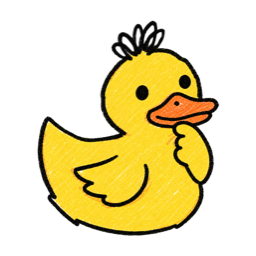
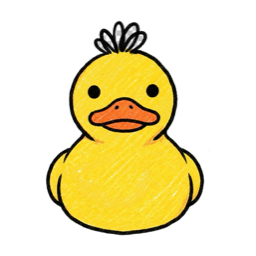
Add dedicated awaiting-input art, numbered options, and clean input-line after reply

Changed region(s): [[0.125, 0.0625, 0.875, 0.9375]]

diff --git a/tools/generate_dock_icons.swift b/tools/generate_dock_icons.swift
@@ -1,10 +1,12 @@
-// Builds the live per-state Dock tile PNGs from real-alpha source art
-// (dockling.png / thinking_dockling.png — no chroma-keying needed, unlike the
-// old crayon-JPEG pipeline these replace). Normalizes each source onto the
-// same canvas size with the same fit-to-bbox scaling, so swapping states
-// doesn't visually jump per DOCKLING_SPEC.md's Dock-tile art requirements.
+// Builds the live per-state Dock tile PNGs from the duck source art.
+// Most sources are already real-alpha PNGs (dockling.png, thinking_dockling.png,
+// eureka_dockling.png). front_dockling.jpg is a JPEG with a checkerboard
+// pattern baked into its pixels instead of real transparency, so it goes
+// through keyCheckerboard() first. Every source then gets cropped to its
+// content bounding box and normalized onto the same canvas size, so swapping
+// states doesn't visually jump per DOCKLING_SPEC.md's Dock-tile art requirements.
 //
-// Usage: swift tools/generate_dock_icons.swift <dir-with-dockling.png-and-thinking_dockling.png> <output-dir>
+// Usage: swift tools/generate_dock_icons.swift <source-dir> <output-dir>
 
 import AppKit
 
@@ -18,16 +20,16 @@ let outputDir = args[2]
 let canvasSize = 256
 let margin = 20 // px of padding around the duck within the canvas
 
-/// Loads a PNG and crops it tightly to its alpha bounding box, via a manual
-/// row-by-row byte copy rather than CGImage.cropping(to:) — that API's
-/// coordinate origin doesn't match a top-down raw pixel buffer, which
-/// previously produced a mis-cropped (bottom-clipped) image here.
-func loadCroppedImage(_ path: String) -> CGImage {
+func loadCGImage(_ path: String) -> CGImage {
     guard let source = NSImage(contentsOfFile: path),
-          let full = source.cgImage(forProposedRect: nil, context: nil, hints: nil) else {
+          let image = source.cgImage(forProposedRect: nil, context: nil, hints: nil) else {
         fatalError("could not load \(path)")
     }
-    let width = full.width, height = full.height
+    return image
+}
+
+func rgbaBuffer(_ image: CGImage) -> (pixels: [UInt8], width: Int, height: Int, colorSpace: CGColorSpace) {
+    let width = image.width, height = image.height
     var pixels = [UInt8](repeating: 0, count: width * height * 4)
     let colorSpace = CGColorSpaceCreateDeviceRGB()
     guard let ctx = CGContext(data: &pixels, width: width, height: height, bitsPerComponent: 8,
@@ -35,7 +37,103 @@ func loadCroppedImage(_ path: String) -> CGImage {
                                bitmapInfo: CGImageAlphaInfo.premultipliedLast.rawValue) else {
         fatalError("could not create bitmap context")
     }
-    ctx.draw(full, in: CGRect(x: 0, y: 0, width: width, height: height))
+    ctx.draw(image, in: CGRect(x: 0, y: 0, width: width, height: height))
+    return (pixels, width, height, colorSpace)
+}
+
+/// Keys out a checkerboard "transparency" pattern that got flattened into a
+/// JPEG's actual pixels (checker squares are ~grayscale; the artwork itself
+/// is colorful, or near-black for outlines) — flood-filled from the image
+/// border so only background connected to the edge is removed, then feathered
+/// for an anti-aliased edge instead of a jagged one. Same technique used for
+/// the original crayon-JPEG assets earlier in this project.
+func keyCheckerboard(_ image: CGImage) -> CGImage {
+    var (pixels, width, height, colorSpace) = rgbaBuffer(image)
+
+    func isCheckerBackground(at i: Int) -> Bool {
+        let r = Int(pixels[i]), g = Int(pixels[i + 1]), b = Int(pixels[i + 2])
+        let spread = max(r, g, b) - min(r, g, b)
+        return spread <= 6 && min(r, g, b) >= 150 // grayscale AND light — excludes the near-black outline
+    }
+
+    var isBackground = [Bool](repeating: false, count: width * height)
+    var queue = [Int]()
+    func tryEnqueue(_ x: Int, _ y: Int) {
+        guard x >= 0, x < width, y >= 0, y < height else { return }
+        let idx = y * width + x
+        if isBackground[idx] { return }
+        if isCheckerBackground(at: idx * 4) {
+            isBackground[idx] = true
+            queue.append(idx)
+        }
+    }
+    for x in 0..<width { tryEnqueue(x, 0); tryEnqueue(x, height - 1) }
+    for y in 0..<height { tryEnqueue(0, y); tryEnqueue(width - 1, y) }
+    var head = 0
+    while head < queue.count {
+        let idx = queue[head]; head += 1
+        let x = idx % width, y = idx / width
+        tryEnqueue(x + 1, y); tryEnqueue(x - 1, y)
+        tryEnqueue(x, y + 1); tryEnqueue(x, y - 1)
+    }
+
+    var alphaMask = [Double](repeating: 0, count: width * height)
+    for idx in 0..<(width * height) { alphaMask[idx] = isBackground[idx] ? 0 : 255 }
+
+    func boxBlur(_ input: [Double], radius: Int) -> [Double] {
+        var horizontal = [Double](repeating: 0, count: width * height)
+        for y in 0..<height {
+            let rowStart = y * width
+            for x in 0..<width {
+                var sum = 0.0, count = 0.0
+                for dx in -radius...radius {
+                    let nx = x + dx
+                    guard nx >= 0, nx < width else { continue }
+                    sum += input[rowStart + nx]; count += 1
+                }
+                horizontal[rowStart + x] = sum / count
+            }
+        }
+        var vertical = [Double](repeating: 0, count: width * height)
+        for x in 0..<width {
+            for y in 0..<height {
+                var sum = 0.0, count = 0.0
+                for dy in -radius...radius {
+                    let ny = y + dy
+                    guard ny >= 0, ny < height else { continue }
+                    sum += horizontal[ny * width + x]; count += 1
+                }
+                vertical[y * width + x] = sum / count
+            }
+        }
+        return vertical
+    }
+    let smoothAlpha = boxBlur(alphaMask, radius: 2)
+
+    for idx in 0..<(width * height) {
+        let i = idx * 4
+        let a = smoothAlpha[idx] / 255.0
+        pixels[i] = UInt8(Double(pixels[i]) * a)
+        pixels[i + 1] = UInt8(Double(pixels[i + 1]) * a)
+        pixels[i + 2] = UInt8(Double(pixels[i + 2]) * a)
+        pixels[i + 3] = UInt8(smoothAlpha[idx])
+    }
+
+    guard let ctx = CGContext(data: &pixels, width: width, height: height, bitsPerComponent: 8,
+                               bytesPerRow: width * 4, space: colorSpace,
+                               bitmapInfo: CGImageAlphaInfo.premultipliedLast.rawValue),
+          let result = ctx.makeImage() else {
+        fatalError("could not rebuild keyed image")
+    }
+    return result
+}
+
+/// Crops an already-transparent image tightly to its alpha bounding box, via
+/// a manual row-by-row byte copy rather than CGImage.cropping(to:) — that
+/// API's coordinate origin doesn't match a top-down raw pixel buffer, which
+/// previously produced a mis-cropped (bottom-clipped) image here.
+func cropToBBox(_ image: CGImage) -> CGImage {
+    let (pixels, width, height, colorSpace) = rgbaBuffer(image)
 
     var minX = width, maxX = 0, minY = height, maxY = 0
     for y in 0..<height {
@@ -46,7 +144,7 @@ func loadCroppedImage(_ path: String) -> CGImage {
             }
         }
     }
-    guard minX <= maxX, minY <= maxY else { fatalError("\(path) is fully transparent") }
+    guard minX <= maxX, minY <= maxY else { fatalError("image is fully transparent") }
 
     let cropWidth = maxX - minX
     let cropHeight = maxY - minY
@@ -65,7 +163,7 @@ func loadCroppedImage(_ path: String) -> CGImage {
                                       bytesPerRow: cropWidth * 4, space: colorSpace,
                                       bitmapInfo: CGImageAlphaInfo.premultipliedLast.rawValue),
           let result = croppedCtx.makeImage() else {
-        fatalError("could not build cropped image for \(path)")
+        fatalError("could not build cropped image")
     }
     return result
 }
@@ -103,15 +201,17 @@ func renderOnCanvas(_ cropped: CGImage, outPath: String) {
 let fileManager = FileManager.default
 try? fileManager.createDirectory(atPath: outputDir, withIntermediateDirectories: true)
 
-let idleImage = loadCroppedImage((sourceDir as NSString).appendingPathComponent("dockling.png"))
-let thinkingImage = loadCroppedImage((sourceDir as NSString).appendingPathComponent("thinking_dockling.png"))
-let eurekaImage = loadCroppedImage((sourceDir as NSString).appendingPathComponent("eureka_dockling.png"))
+let idleImage = cropToBBox(loadCGImage((sourceDir as NSString).appendingPathComponent("dockling.png")))
+let thinkingImage = cropToBBox(loadCGImage((sourceDir as NSString).appendingPathComponent("thinking_dockling.png")))
+let eurekaImage = cropToBBox(loadCGImage((sourceDir as NSString).appendingPathComponent("eureka_dockling.png")))
+let frontImage = cropToBBox(keyCheckerboard(loadCGImage((sourceDir as NSString).appendingPathComponent("front_dockling.jpg"))))
 
 renderOnCanvas(idleImage, outPath: (outputDir as NSString).appendingPathComponent("idle.png"))
 renderOnCanvas(eurekaImage, outPath: (outputDir as NSString).appendingPathComponent("eureka.png"))
+renderOnCanvas(frontImage, outPath: (outputDir as NSString).appendingPathComponent("awaiting-input.png"))
 
-// Every "actively doing something" bucket shares the same thinking pose for
+// Every other "actively doing something" bucket shares the thinking pose for
 // now — per-bucket art is a later refinement once more poses exist.
-for state in ["bash", "edit", "search", "other", "awaiting-input", "error"] {
+for state in ["bash", "edit", "search", "other", "error"] {
     renderOnCanvas(thinkingImage, outPath: (outputDir as NSString).appendingPathComponent("\(state).png"))
 }

diff --git a/DocklingAgent/Sources/DocklingAgent/ReplyPanel.swift b/DocklingAgent/Sources/DocklingAgent/ReplyPanel.swift
@@ -8,7 +8,16 @@ import AppKit
 /// screen, which is where the Dock usually is.
 final class ReplyPanelController: NSObject, NSTextFieldDelegate {
     private var panel: NSPanel?
+    private var activeField: NSTextField?
     private let onSubmit: (String) -> Void
+
+    private let width: CGFloat = 340
+    private let horizontalPadding: CGFloat = 16
+    private let verticalPadding: CGFloat = 16
+    private let labelFieldGap: CGFloat = 12
+    private let fieldHeight: CGFloat = 24
+    private let maxLabelHeight: CGFloat = 400 // clamp for pathologically long questions, rather than growing off-screen
+    private let questionFont = NSFont.systemFont(ofSize: 12)
 
     init(onSubmit: @escaping (String) -> Void) {
         self.onSubmit = onSubmit
@@ -17,8 +26,15 @@ final class ReplyPanelController: NSObject, NSTextFieldDelegate {
     func show(question: String) {
         panel?.close()
 
-        let width: CGFloat = 320
-        let height: CGFloat = 110
+        let labelWidth = width - horizontalPadding * 2
+        let unclampedHeight = ceil((question as NSString).boundingRect(
+            with: NSSize(width: labelWidth, height: .greatestFiniteMagnitude),
+            options: [.usesLineFragmentOrigin, .usesFontLeading],
+            attributes: [.font: questionFont]
+        ).height)
+        let labelHeight = min(unclampedHeight, maxLabelHeight)
+        let height = verticalPadding * 2 + labelHeight + labelFieldGap + fieldHeight
+
         let screenFrame = NSScreen.main?.visibleFrame ?? NSRect(x: 0, y: 0, width: 1440, height: 900)
         let origin = NSPoint(x: screenFrame.midX - width / 2, y: screenFrame.minY + 16)
 
@@ -34,15 +50,16 @@ final class ReplyPanelController: NSObject, NSTextFieldDelegate {
         let contentView = NSView(frame: NSRect(x: 0, y: 0, width: width, height: height))
 
         let label = NSTextField(wrappingLabelWithString: question)
-        label.frame = NSRect(x: 16, y: height - 52, width: width - 32, height: 40)
-        label.font = .systemFont(ofSize: 12)
+        label.frame = NSRect(x: horizontalPadding, y: verticalPadding + fieldHeight + labelFieldGap,
+                              width: labelWidth, height: labelHeight)
+        label.font = questionFont
         label.textColor = .secondaryLabelColor
         label.isEditable = false
         label.isBordered = false
         label.drawsBackground = false
         contentView.addSubview(label)
 
-        let field = NSTextField(frame: NSRect(x: 16, y: 16, width: width - 32, height: 24))
+        let field = NSTextField(frame: NSRect(x: horizontalPadding, y: verticalPadding, width: labelWidth, height: fieldHeight))
         field.placeholderString = "Reply…"
         field.target = self
         field.action = #selector(submit(_:))
@@ -57,8 +74,6 @@ final class ReplyPanelController: NSObject, NSTextFieldDelegate {
         NSApp.activate(ignoringOtherApps: true)
         panel.makeFirstResponder(field)
     }
-
-    private var activeField: NSTextField?
 
     @objc private func submit(_ sender: NSTextField) {
         let text = sender.stringValue

diff --git a/DocklingAgent/Sources/DocklingAgent/HookServer.swift b/DocklingAgent/Sources/DocklingAgent/HookServer.swift
@@ -99,15 +99,48 @@ struct HookEvent {
     let sessionID: String?
     let name: String
     let toolName: String?
+    let toolInput: [String: Any]? // PreToolUse only: the tool's arguments, e.g. {"command": "..."} for Bash
     let tmuxPane: String? // only present on the SessionStart command hook — see report_session_start.sh
-    let message: String? // Notification only: human-readable text, e.g. "Permission needed to run Bash command"
+    let message: String? // Notification only: a generic string like "Claude needs your permission" — not the specific question
     let notificationType: String? // Notification only: "permission_prompt", "idle_prompt", etc.
+
+    /// A human-readable description of what a tool call is about to do, built
+    /// from tool_name + tool_input. Notification events don't carry this
+    /// themselves (their `message` is generic), so the caller remembers the
+    /// most recent PreToolUse's description to show a real question instead.
+    var toolDescription: String? {
+        guard let toolName, let toolInput else { return toolName }
+        switch toolName {
+        case "Bash":
+            return (toolInput["command"] as? String).map { "Run: \($0)" }
+        case "Edit", "Write", "NotebookEdit", "MultiEdit":
+            return (toolInput["file_path"] as? String).map { "Edit: \($0)" }
+        case "Grep", "Glob":
+            return (toolInput["pattern"] as? String).map { "Search: \($0)" }
+        case "WebSearch":
+            return (toolInput["query"] as? String).map { "Web search: \($0)" }
+        case "WebFetch":
+            return (toolInput["url"] as? String).map { "Fetch: \($0)" }
+        case "AskUserQuestion":
+            guard let question = (toolInput["questions"] as? [[String: Any]])?.first,
+                  let text = question["question"] as? String else {
+                return toolName
+            }
+            let options = (question["options"] as? [[String: Any]])?.compactMap { $0["label"] as? String } ?? []
+            guard !options.isEmpty else { return text }
+            let numbered = options.enumerated().map { "\($0.offset + 1). \($0.element)" }
+            return ([text] + numbered).joined(separator: "\n")
+        default:
+            return toolName
+        }
+    }
 
     init?(json: [String: Any]) {
         guard let name = json["hook_event_name"] as? String else { return nil }
         self.name = name
         self.sessionID = json["session_id"] as? String
         self.toolName = json["tool_name"] as? String
+        self.toolInput = json["tool_input"] as? [String: Any]
         self.message = json["message"] as? String
         self.notificationType = json["notification_type"] as? String
         let pane = json["tmux_pane"] as? String

diff --git a/DocklingAgent/Sources/DocklingAgent/TmuxReply.swift b/DocklingAgent/Sources/DocklingAgent/TmuxReply.swift
@@ -5,12 +5,16 @@ import Foundation
 enum TmuxReply {
     static func send(text: String, toPane pane: String) {
         guard !text.isEmpty else { return }
-        // Sent as two calls: the text goes through `-l` (literal), so tmux
-        // never tries to interpret it as key names (e.g. a reply containing
-        // the word "Enter" must not be parsed as the Enter key); the actual
-        // Enter keystroke is sent separately, non-literal, right after.
+        // Sent as three calls, each waited on so they land in order:
+        // 1. the text, through `-l` (literal) so tmux never tries to interpret
+        //    it as key names (e.g. a reply containing the word "Enter" must
+        //    not be parsed as the Enter key).
+        // 2. the actual Enter keystroke, non-literal, to submit it.
+        // 3. Ctrl+U, to clear the now-empty-but-not-visually-reset input line
+        //    Claude Code's CLI leaves behind, so the next prompt starts clean.
         sendKeys(["-l", "--", text], toPane: pane)
         sendKeys(["Enter"], toPane: pane)
+        sendKeys(["C-u"], toPane: pane)
     }
 
     private static func sendKeys(_ args: [String], toPane pane: String) {
@@ -19,6 +23,7 @@ enum TmuxReply {
         process.arguments = ["tmux", "send-keys", "-t", pane] + args
         do {
             try process.run()
+            process.waitUntilExit() // keep the three calls strictly ordered
         } catch {
             fputs("[dockling] tmux send-keys failed: \(error)\n", stderr)
         }

diff --git a/DocklingAgent/Sources/DocklingAgent/SessionChild.swift b/DocklingAgent/Sources/DocklingAgent/SessionChild.swift
@@ -10,6 +10,7 @@ final class SessionChildDelegate: NSObject, NSApplicationDelegate {
     private var server: HookServer?
     private var tmuxPane: String? // learned from SessionStart; needed to send a reply via `tmux send-keys`
     private var pendingQuestion: String = "Claude is waiting for your input."
+    private var lastToolDescription: String? // remembered from the most recent PreToolUse, since Notification's own message is generic
     private lazy var replyPanel = ReplyPanelController { [weak self] text in
         self?.submitReply(text)
     }
@@ -63,12 +64,17 @@ final class SessionChildDelegate: NSObject, NSApplicationDelegate {
         case "PreToolUse":
             let bucket = event.toolName.map(DockState.bucket(forToolName:)) ?? .other
             dockIcon.apply(bucket)
+            lastToolDescription = event.toolDescription
         case "PostToolUseFailure":
             dockIcon.apply(.error)
         case "TaskCompleted":
             dockIcon.apply(.eureka)
         case "Notification":
-            pendingQuestion = event.message ?? "Claude is waiting for your input."
+            if event.notificationType == "permission_prompt", let description = lastToolDescription {
+                pendingQuestion = description
+            } else {
+                pendingQuestion = event.message ?? "Claude is waiting for your input."
+            }
             dockIcon.apply(.awaitingInput)
         case "Stop", "StopFailure":
             dockIcon.apply(.idle)
